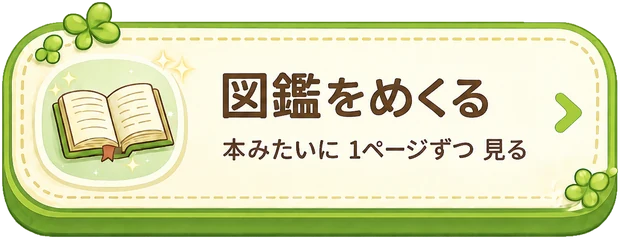
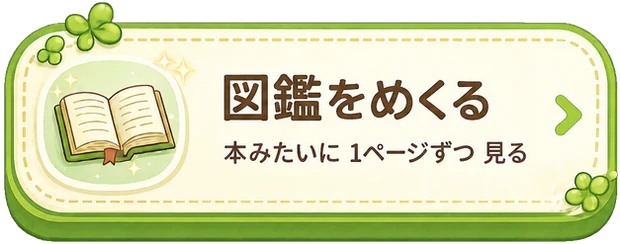
え の 日本地図を さいしょの がめんに／ズームも できるように、 メニューの ボタンの 大きさを そろえた（v132）
おもいでマップ
・ひらくと まず え の 日本地図(にほんちず)が 出(で)る ように した
  （日本(にほん)の 場所(ばしょ)が 1つも ない ときは ふつうの 地図(ちず)から）
・＋ − 「ぜんぶ 見(み)る」が え の 地図(ちず)でも つかえる（さいだい 6ばい）
・2本(ほん)の ゆびで つまんでも 大(おお)きく できる
・ゆびで うごかせる。はしまで 行(い)ったら とまる
・さいしょの ＋は「おもいでの ある あたり」に よって いく
  （まんなかを そのまま 大(おお)きく すると、なにも ない 空(そら)に
    ズームして しまって いた）
・ピンの 大(おお)きさは かわらない ので、大(おお)きく するほど
  ちかくの ピンが はなれて えらびやすく なる
・え を 1024pxに して、大(おお)きく しても ぼやけにくく した

メニュー
・5つの えの「ボタン本体(ほんたい)」の 大(おお)きさを はかって、
  ぜんぶ おなじ 位置(いち)・おなじ 幅(はば)に そろえ直(なお)した
  （のばして いない ので 文字(もじ)は ゆがまない）
・たかさが そろった ぶん すこし 高(たか)く なった ので、
  せの ひくい がめんでは すきまを つめる ように した

たしかめた こと
・412／360／320 で 5つとも おなじ たかさ（117／109／96px）・はみ出(だ)し なし
・え の 地図(ちず)：＋で ×1.6、ピンの 大(おお)きさは そのまま、
  ひっぱっても 画面(がめん)から え が 消(き)えない、ピンも おせる
・ふつうの 地図(ちず)：ズーム・ドラッグ・ピン、これまでどおり

Claude-Session: https://claude.ai/code/session_0117rxThQ1NyrT7KgAK1ereN

diff --git a/js/app.js b/js/app.js
@@ -2,7 +2,7 @@
 (() => {
   "use strict";
 
-  const APP_VERSION = "v131";
+  const APP_VERSION = "v132";
 
   const $ = (s, e = document) => e.querySelector(s);
   const $$ = (s, e = document) => [...e.querySelectorAll(s)];
@@ -3960,7 +3960,11 @@
   const MM_TILE = 256, MM_MIN_Z = 3, MM_MAX_Z = 18;
   let mmZ = 15, mmLat = 35.68, mmLng = 139.77;   // ちずの まんなか
   let mmDrag = null, mmWired = false, mmMoved = false;
-  let mmMode = "real";          // "real"＝ふつうの ちず ／ "japan"＝え の にほん地図
+  const mmPtr = new Map();      // いま さわって いる ゆび
+  let mmPinch = null;           // 2本(ほん)ゆびで つまんで いる とちゅう
+  let mmMode = "japan";         // "japan"＝え の にほん地図（さいしょは こっち）／ "real"＝ふつうの ちず
+  const JP_ZMAX = 6;            // え の 地図(ちず)を ここまで 大(おお)きく できる
+  let jpZoom = 1, jpX = 0, jpY = 0;
 
   /* ---- え の にほん地図(ちず)（img/japan.webp）----
      手(て)で かいた 絵(え)なので、ほんとうの 地図(ちず)とは かたちが すこし ちがう。
@@ -4004,13 +4008,26 @@
     return { x, y };
   }
 
-  function mmDrawJapan() {
+  /* え の 地図(ちず)の 大(おお)きさと いち。
+     ピンは % で おいて ある ので、わくを 大(おお)きく するだけで
+     ピンも いっしょに ひろがる（ピンの 大(おお)きさは かわらない）。*/
+  function mmJapanLayout() {
     const st = $("#mm-stage"), wrap = $("#mm-jp-wrap");
     const W = st.clientWidth, H = st.clientHeight;
-    const k = Math.min(W / JP_W, H / JP_H);
+    const k = Math.min(W / JP_W, H / JP_H) * jpZoom;
     const w = Math.round(JP_W * k), h = Math.round(JP_H * k);
     wrap.style.width = w + "px";
     wrap.style.height = h + "px";
+    // はみ出(で)た ぶんだけ うごかせる（まっしろな ところまで 行(い)かない）
+    const mx = Math.max(0, (w - W) / 2), my = Math.max(0, (h - H) / 2);
+    jpX = Math.max(-mx, Math.min(mx, jpX));
+    jpY = Math.max(-my, Math.min(my, jpY));
+    wrap.style.left = Math.round((W - w) / 2 + jpX) + "px";
+    wrap.style.top = Math.round((H - h) / 2 + jpY) + "px";
+  }
+
+  function mmDrawJapan() {
+    const wrap = $("#mm-jp-wrap");
     let html = `<img class="mm-jp-img" src="img/japan.webp" alt="" draggable="false">`;
     let far = 0;
     for (const s of mmSpots()) {
@@ -4019,7 +4036,7 @@
       const pic = s.place.photo || (s.bugs[0] && s.bugs[0].blob ? urlFor(s.bugs[0].blob) : "");
       html +=
         `<button class="mm-pin" type="button" data-id="${escapeHtml(String(s.place.id))}" ` +
-        `style="left:${Math.round(p.x * k)}px;top:${Math.round(p.y * k)}px">` +
+        `style="left:${(p.x / JP_W * 100).toFixed(3)}%;top:${(p.y / JP_H * 100).toFixed(3)}%">` +
           `<span class="mm-pin-pic">` +
             (pic ? `<img src="${pic}" alt="" draggable="false">` : `<span class="mm-pin-emoji">${s.place.emoji || "🌳"}</span>`) +
           `</span>` +
@@ -4028,12 +4045,53 @@
         `</button>`;
     }
     wrap.innerHTML = html;
+    mmJapanLayout();
     const fe = $("#mm-far");
     fe.hidden = !far;
     if (far) {
       fe.textContent = `日本(にほん)の そとの 場所(ばしょ)が ${far}か所(しょ) あるよ。「🗺 ふつうの ちず」で 見(み)てね`;
       rubyifyDOM(fe);
     }
+  }
+
+  // ピンの まんなか（え の ピクセル）
+  function jpCentroid() {
+    let n = 0, x = 0, y = 0;
+    for (const s of mmSpots()) {
+      const p = jpPoint(s.place.lat, s.place.lng);
+      if (p) { x += p.x; y += p.y; n++; }
+    }
+    return n ? { x: x / n, y: y / n } : { x: JP_W / 2, y: JP_H / 2 };
+  }
+
+  /* え の 地図(ちず)の ズーム。
+     ぜんたいが 見(み)えて いる ときの さいしょの ＋は、なにも ない 空(そら)では なく
+     「おもいでの ある あたり」に よって いく。そのあとは 今(いま)見(み)えて いる
+     まんなかを かえずに 大(おお)きく／小(ちい)さく する。*/
+  function mmJapanZoom(mul) {
+    const z = Math.max(1, Math.min(JP_ZMAX, jpZoom * mul));
+    if (Math.abs(z - jpZoom) < 0.001) return;
+    const st = $("#mm-stage");
+    const W = st.clientWidth, H = st.clientHeight;
+    if (jpZoom === 1 && z > 1) {
+      const c = jpCentroid();
+      const k = Math.min(W / JP_W, H / JP_H) * z;
+      jpX = W / 2 - c.x * k - (W - JP_W * k) / 2;
+      jpY = H / 2 - c.y * k - (H - JP_H * k) / 2;
+    } else {
+      const r = z / jpZoom;
+      jpX *= r; jpY *= r;
+    }
+    jpZoom = z;
+    mmJapanLayout();
+  }
+  function mmJapanReset() { jpZoom = 1; jpX = 0; jpY = 0; mmJapanLayout(); }
+  // つまんだ ときの ズーム（ピンチ）
+  function mmJapanPinch(z) {
+    z = Math.max(1, Math.min(JP_ZMAX, z));
+    const r = z / jpZoom;
+    jpZoom = z; jpX *= r; jpY *= r;
+    mmJapanLayout();
   }
 
   // え の 地図(ちず)と ふつうの 地図(ちず)を きりかえる
@@ -4043,11 +4101,10 @@
     $("#mm-japan").hidden = !jp;
     $("#mm-canvas").hidden = jp;
     $("#mm-credit").hidden = jp;
-    $("#mm-in").hidden = jp; $("#mm-out").hidden = jp; $("#mm-fit").hidden = jp;
     $("#mm-jp").textContent = jp ? "🗺 ふつうの ちず" : "🗾 にほん";
     $("#mm-far").hidden = true;
     mmCloseSheet();
-    if (jp) mmDrawJapan(); else { $("#mm-far").hidden = true; mmDraw(); }
+    if (jp) { mmJapanReset(); mmDrawJapan(); } else mmDraw();
   }
 
   // いど・けいど → ちずの ピクセル（ウェブメルカトル）
@@ -4194,11 +4251,27 @@
     /* ゆびで うごかす。ピンの 上(うえ)から でも 動(うご)かせる
        （ピンが かたまって いる ときに つかめなく なる のを ふせぐ）。
        すこしでも 動(うご)いたら「タップ」とは みなさない。*/
+    const wrap = $("#mm-jp-wrap");
     st.addEventListener("pointerdown", (e) => {
-      if (mmMode !== "real") return;          // え の 地図(ちず)は うごかさない
-      mmDrag = { x: e.clientX, y: e.clientY, dx: 0, dy: 0, id: e.pointerId, moved: false };
+      mmPtr.set(e.pointerId, { x: e.clientX, y: e.clientY });
+      if (mmPtr.size === 2) {                 // 2本(ほん)の ゆびで つまむ＝ズーム
+        const [a, b] = [...mmPtr.values()];
+        mmPinch = { d: Math.hypot(a.x - b.x, a.y - b.y) || 1, z: jpZoom };
+        mmDrag = null; mmMoved = true;
+        return;
+      }
+      mmDrag = { x: e.clientX, y: e.clientY, dx: 0, dy: 0, id: e.pointerId, moved: false,
+                 jx: jpX, jy: jpY };
     });
     st.addEventListener("pointermove", (e) => {
+      const p = mmPtr.get(e.pointerId);
+      if (p) { p.x = e.clientX; p.y = e.clientY; }
+      if (mmPinch && mmPtr.size >= 2) {
+        const [a, b] = [...mmPtr.values()];
+        const d = Math.hypot(a.x - b.x, a.y - b.y) || 1;
+        mmJapanPinch(mmPinch.z * (d / mmPinch.d));
+        return;
+      }
       if (!mmDrag || e.pointerId !== mmDrag.id) return;
       mmDrag.dx = e.clientX - mmDrag.x;
       mmDrag.dy = e.clientY - mmDrag.y;
@@ -4207,12 +4280,20 @@
         // うごかしはじめて から つかむ（うごかさなければ ピンが おせる ように）
         try { st.setPointerCapture(e.pointerId); } catch (err) {}
       }
-      if (mmDrag.moved) cv.style.transform = `translate(${mmDrag.dx}px,${mmDrag.dy}px)`;
+      if (!mmDrag.moved) return;
+      if (mmMode === "japan") {
+        jpX = mmDrag.jx + mmDrag.dx; jpY = mmDrag.jy + mmDrag.dy;
+        mmJapanLayout();
+      } else {
+        cv.style.transform = `translate(${mmDrag.dx}px,${mmDrag.dy}px)`;
+      }
     });
-    const stop = () => {
+    const stop = (e) => {
+      if (e && e.pointerId != null) mmPtr.delete(e.pointerId);
+      if (mmPinch) { if (mmPtr.size < 2) mmPinch = null; return; }
       if (!mmDrag) return;
       const moved = mmDrag.moved;
-      if (moved) {
+      if (moved && mmMode === "real") {
         const ctr = mmProject(mmLat, mmLng, mmZ);
         const q = mmUnproject(ctr.x - mmDrag.dx, ctr.y - mmDrag.dy, mmZ);
         mmLat = Math.max(-85, Math.min(85, q.lat));
@@ -4220,7 +4301,7 @@
       }
       mmDrag = null;
       mmMoved = moved;
-      if (moved) mmDraw();
+      if (moved && mmMode === "real") mmDraw();
     };
     st.addEventListener("pointerup", stop);
     st.addEventListener("pointercancel", stop);
@@ -4230,10 +4311,10 @@
       if (pin) mmOpenSpot(pin.dataset.id);
     };
     cv.addEventListener("click", tap);
-    $("#mm-jp-wrap").addEventListener("click", tap);
+    wrap.addEventListener("click", tap);
     window.addEventListener("resize", () => {
       if ($("#memmap").hidden) return;
-      if (mmMode === "japan") mmDrawJapan(); else mmDraw();
+      if (mmMode === "japan") mmJapanLayout(); else mmDraw();
     });
   }
 
@@ -4253,10 +4334,19 @@
       : "";
     rubyifyDOM($("#memmap"));
     $("#mm-jp").hidden = spots.length === 0;
+    // 日本(にほん)の 場所(ばしょ)が 1つも なければ ふつうの 地図(ちず)から
+    if (mmMode === "japan" && spots.length &&
+        !spots.some((s) => jpPoint(s.place.lat, s.place.lng))) mmMode = "real";
+    const jp = mmMode === "japan";
+    $("#mm-japan").hidden = !jp;
+    $("#mm-canvas").hidden = jp;
+    $("#mm-credit").hidden = jp;
+    $("#mm-jp").textContent = jp ? "🗺 ふつうの ちず" : "🗾 にほん";
+    if (!jp) $("#mm-far").hidden = true;
     if (spots.length) {
       requestAnimationFrame(() => {
         mmFit(spots);                       // ふつうの 地図(ちず)の いちは いつも ととのえて おく
-        if (mmMode === "japan") mmDrawJapan(); else mmDraw();
+        if (mmMode === "japan") { mmJapanReset(); mmDrawJapan(); } else mmDraw();
       });
     } else {
       $("#mm-canvas").innerHTML = "";
@@ -4938,9 +5028,16 @@
     $("#map-open").addEventListener("click", openMemMap);
     $("#mm-close").addEventListener("click", closeMemMap);
     $("#mm-sheet-close").addEventListener("click", mmCloseSheet);
-    $("#mm-in").addEventListener("click", () => mmZoom(1));
-    $("#mm-out").addEventListener("click", () => mmZoom(-1));
-    $("#mm-fit").addEventListener("click", () => { mmFit(mmSpots()); mmDraw(); sound.blip(); });
+    $("#mm-in").addEventListener("click", () => {
+      if (mmMode === "japan") { mmJapanZoom(1.6); sound.blip(); } else mmZoom(1);
+    });
+    $("#mm-out").addEventListener("click", () => {
+      if (mmMode === "japan") { mmJapanZoom(1 / 1.6); sound.blip(); } else mmZoom(-1);
+    });
+    $("#mm-fit").addEventListener("click", () => {
+      if (mmMode === "japan") mmJapanReset(); else { mmFit(mmSpots()); mmDraw(); }
+      sound.blip();
+    });
     $("#mm-jp").addEventListener("click", () => { mmSetMode(mmMode === "japan" ? "real" : "japan"); sound.blip(); });
     $("#sort-done").addEventListener("click", closeSortSheet);
     $("#sort-sheet").addEventListener("click", (e) => { if (e.target.id === "sort-sheet") closeSortSheet(); });

diff --git a/css/style.css b/css/style.css
@@ -192,17 +192,19 @@ button { font-family: inherit; cursor: pointer; border: none; color: inherit; }
    中(なか)の アイコンや 文字(もじ)は かくして、よみあげ用(よう)に aria-label を つける。*/
 .drawer-item {
   display: block; width: 100%; padding: 0; border: 0; font-family: inherit; text-align: left;
+  /* え は どれも おなじ 大(おお)きさに そろえて ある ので、比(ひ)も 1つで いい */
+  aspect-ratio: 620 / 244;
   background: center / 100% 100% no-repeat;
   filter: drop-shadow(0 3px 4px rgba(0,0,0,.34));
 }
 .drawer-item > * { display: none; }
 .drawer-item:active { transform: translateY(3px); filter: drop-shadow(0 1px 2px rgba(0,0,0,.34)); }
 .drawer-item[hidden] { display: none; }
-.drawer-item.di-book  { aspect-ratio: 620 / 239; background-image: url("../img/di-book.webp"); }
-.drawer-item.di-arena { aspect-ratio: 620 / 233; background-image: url("../img/di-arena.webp"); }
-.drawer-item.di-quiz  { aspect-ratio: 620 / 231; background-image: url("../img/di-quiz.webp"); }
-.drawer-item.di-sort  { aspect-ratio: 620 / 229; background-image: url("../img/di-sort.webp"); }
-.drawer-item.di-map   { aspect-ratio: 620 / 197; background-image: url("../img/di-map.webp"); }
+.drawer-item.di-book  { background-image: url("../img/di-book.webp"); }
+.drawer-item.di-arena { background-image: url("../img/di-arena.webp"); }
+.drawer-item.di-quiz  { background-image: url("../img/di-quiz.webp"); }
+.drawer-item.di-sort  { background-image: url("../img/di-sort.webp"); }
+.drawer-item.di-map   { background-image: url("../img/di-map.webp"); }
 /* いちばん した：ばーじょん（ひだり）と ⚙設定（みぎ） */
 .drawer-bottom {
   margin-top: auto; display: flex; align-items: flex-end; justify-content: space-between; gap: 10px;
@@ -229,8 +231,12 @@ button { font-family: inherit; cursor: pointer; border: none; color: inherit; }
   100% { transform: none; opacity: 1; }
 }
 /* せの ひくい がめんでは すきまを つめて、メニューが はみ出(だ)さない ように */
-@media (max-height: 720px) {
-  .drawer { gap: 8px; padding-top: calc(var(--safe-top) + 10px); }
+@media (max-height: 820px) {
+  .drawer { gap: 6px; padding-top: calc(var(--safe-top) + 10px); }
+}
+@media (max-height: 680px) {
+  .drawer { gap: 4px; padding-bottom: calc(var(--safe-bot) + 10px); }
+  .drawer-title { font-size: 19px; }
 }
 @media (prefers-reduced-motion: reduce) {
   .drawer { transition: none; }
@@ -2685,8 +2691,10 @@ button.stm:not(:disabled):active .stm-in { transform: scale(.9); }
 .mm-pin:active .mm-pin-pic { transform: scale(.94); }
 
 /* にほん ぜんぶの え の 地図(ちず) */
-.mm-japan { position: absolute; inset: 0; z-index: 1; display: grid; place-items: center; overflow: hidden; }
-.mm-jp-wrap { position: relative; }
+.mm-japan { position: absolute; inset: 0; z-index: 1; overflow: hidden; }
+/* いちは JS で きめる（グリッドの まんなか よせだと、はみ出(だ)した ときに
+   はしっこに はりついて しまう ことが ある ため）*/
+.mm-jp-wrap { position: absolute; left: 0; top: 0; }
 .mm-jp-img { display: block; width: 100%; height: 100%; -webkit-user-drag: none; user-select: none; }
 .mm-far {
   position: absolute; left: 8px; bottom: 6px; margin: 0; z-index: 3; max-width: 62%;

diff --git a/service-worker.js b/service-worker.js
@@ -1,5 +1,5 @@
 /* むしずかん — サービスワーカー（オフラインでも つかえる／あたらしい ばんに すぐ なる）*/
-const CACHE = "mushizukan-v131";
+const CACHE = "mushizukan-v132";
 /* ちずの タイルは バージョンを 上(あ)げても すてない（ためた ぶんが むだに ならない）*/
 const TILES = "mushizukan-tiles";
 const TILE_HOST = "https://tile.openstreetmap.org/";
